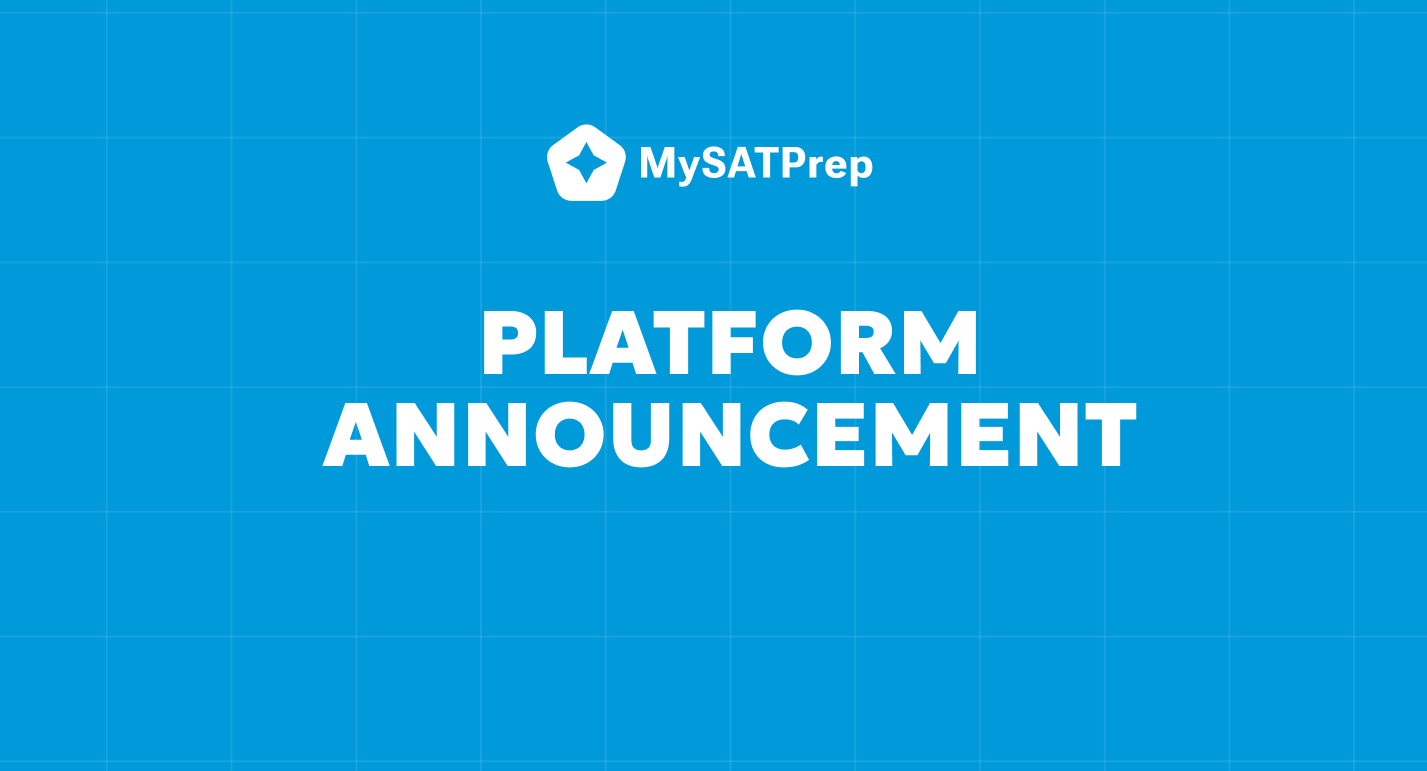
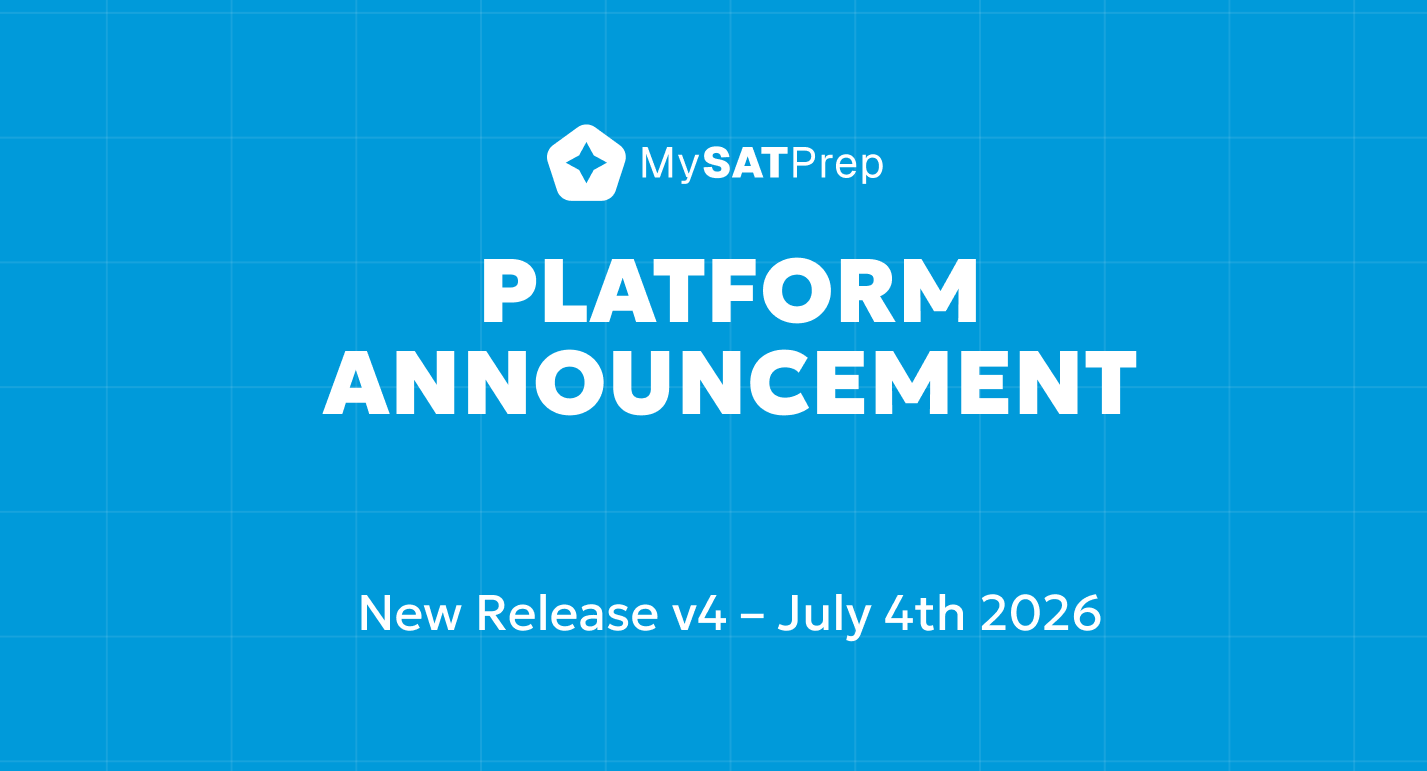
check

diff --git a/src/components/ui/popup-tour.tsx b/src/components/ui/popup-tour.tsx
@@ -17,20 +17,12 @@ import Image from "next/image";
 import { AnimatePresence, motion } from "framer-motion";
 import { Logo } from "../logo";
 import PlatformAnnouncementBanner from "@/src/platform-announcement-banner.png";
-import LastAnnouncementBanner from "@/src/last-announcement-banner.png";
-import Insights from "@/src/insights.png";
+import ImportData from "@/src/ImportData.png";
 
-import NewDashboard from "@/src/new-dashboard.png";
-import QuestionbankDemo from "@/src/questionbank-demo.gif";
-import AdvancedFilterDemo from "@/src/advanced-filter-demo.gif";
-import QB_Custom_demo from "@/src/questionbank-custom-demo.gif";
+import FeatureAnnouncement from "@/src/fourthJuly.png";
+import SignInMethod from "@/src/SignInMethod.png";
 
-import QB_Tracker from "@/src/qb-tracker.png";
-import Vocabs_Tracker from "@/src/vocabs-tracker.png";
-import Vocabs_Flashcard from "@/src/vocabs-flashcard.png";
-import Vocabs_Practice from "@/src/vocabs-practice.png";
-import Vocabs_AI from "@/src/sat-vocab-ai-demo.gif";
-import BookmarkFolder from "@/src/bookmark-folder.gif";
+import SyncDataAcrossDevices from "@/src/SyncDataAcrossDevices.png";
 
 export default function Dialog02() {
   const [step, setStep] = useState(0);
@@ -45,75 +37,28 @@ export default function Dialog02() {
       image: PlatformAnnouncementBanner,
     },
     {
-      title: "New Dashboard Design",
+      title: "You Can Now Sign In With Google or Email",
       description:
         "The dashboard has been redesigned to provide more intuitive and user-friendly experience for mobile, tablet, and desktop users.",
-      image: NewDashboard,
+      image: FeatureAnnouncement,
     },
     {
-      title: "Personalized Insights & Statistics",
+      title: "Choose Your Preferred Sign In Method!",
+      description:
+        "The dashboard has been redesigned to provide more intuitive and user-friendly experience for mobile, tablet, and desktop users.",
+      image: SignInMethod,
+    },
+    {
+      title: "Import Your Local Browser Data to Cloud!",
       description:
         "You can get personalized insights and statistics based on your performance on each subject's topics.",
-      image: Insights,
+      image: ImportData,
     },
     {
-      title: "Bookmark Questions with Folders",
+      title: "Sync Data Across Devices",
       description:
         "You can now bookmark questions and organize them with folders.",
-      image: BookmarkFolder,
-    },
-    {
-      title: "Questionbank Page is Here",
-      description:
-        "We just added a new Question Bank page like in Collegeboard. Yup, it directly fetches from Collegeboard's Question Bank collections.",
-      image: QuestionbankDemo,
-    },
-    {
-      title: "Questionbank Custom Look",
-      description:
-        "You can even choose the UI of question bank to be in list view or slide, whichever you prefer.",
-      image: QB_Custom_demo,
-    },
-    {
-      title: "Questionbank Advanced Filters",
-      description:
-        "We have more filter options to help you narrow down your search and find exactly what you're looking for in the question bank. You can even know what the latest questions that just added by the Collegeboard.",
-      image: AdvancedFilterDemo,
-    },
-    {
-      title: "Questionbank Tracker",
-      description:
-        "You can now track your collegeboard's question bank progress thoroughly within this platform.",
-      image: QB_Tracker,
-    },
-
-    {
-      title: "SAT Vocab is Here",
-      description: `Learn more than 800+ SAT vocab words compiled from various sources.`,
-      image: Vocabs_Tracker,
-    },
-    {
-      title: "Learn 800+ Vocabs with Flashcards",
-      description:
-        "Practice & learn more than 800+ SAT vocab words with flashcards. Data saved locally within your browser's localstorage.",
-      image: Vocabs_Flashcard,
-    },
-    {
-      title: "Practice 800+ Vocabs",
-      description: `Practice with various modes to help you memorize the words better.`,
-      image: Vocabs_Practice,
-    },
-    {
-      title: "Practice Vocabs with AI",
-      description:
-        "We use deepseek to help you do personalized practice with SAT Vocabs and most importantly instant feedback from AI!",
-      image: Vocabs_AI,
-    },
-    {
-      title: "Lastly, it's all free, forever!",
-      description:
-        "Yes, you heard that right! PracticeSAT is will be completely free to use, now and always. Our platform is ad-free and will remain so, it's also open source btw. ",
-      image: LastAnnouncementBanner,
+      image: SyncDataAcrossDevices,
     },
   ];
 
@@ -159,7 +104,7 @@ export default function Dialog02() {
           "max-w-3xl p-0 overflow-hidden rounded-xl border shadow-2xl",
           "bg-white text-black",
           "dark:bg-black dark:text-white dark:border-neutral-800",
-          "data-[state=open]:animate-none data-[state=closed]:animate-none max-h-[80vh] overflow-y-auto"
+          "data-[state=open]:animate-none data-[state=closed]:animate-none max-h-[80vh] overflow-y-auto",
         )}
       >
         <div className="flex flex-col md:flex-row w-full h-full">
@@ -185,7 +130,7 @@ export default function Dialog02() {
                       "flex items-center gap-2 text-sm transition cursor-pointer",
                       index === step
                         ? "font-semibold"
-                        : "opacity-60 hover:opacity-100"
+                        : "opacity-60 hover:opacity-100",
                     )}
                     onClick={() => setStep(index)}
                   >